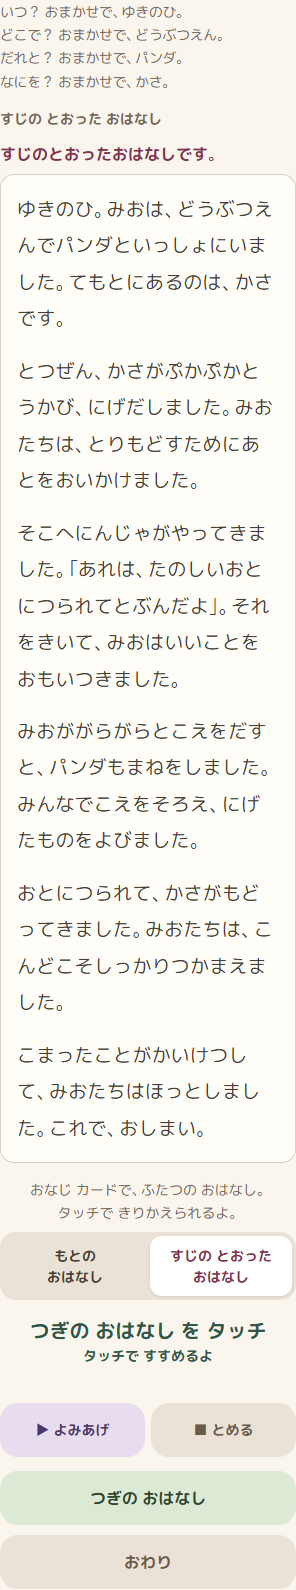
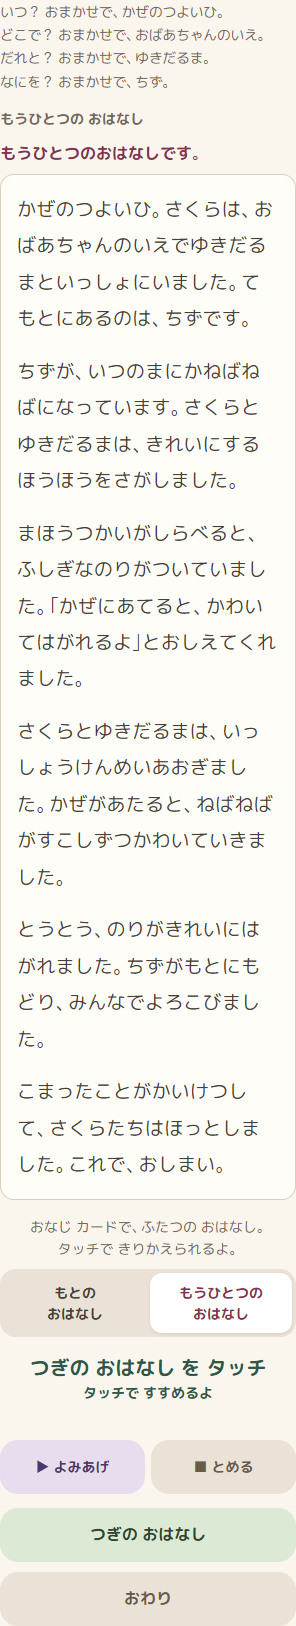
Rename alternate story to another story in UI and narration

diff --git a/story/index.html b/story/index.html
@@ -83,7 +83,7 @@
         <p class="switch-caption">おなじ カードで、ふたつの おはなし。<br>タッチで きりかえられるよ。</p>
         <div class="story-versions" role="group" aria-label="おはなしの きりかえ">
           <button type="button" data-story-version="original" aria-pressed="true"><span>もとの</span><span>おはなし</span></button>
-          <button type="button" data-story-version="coherent" aria-pressed="false"><span>すじの とおった</span><span>おはなし</span></button>
+          <button type="button" data-story-version="coherent" aria-pressed="false"><span>もうひとつの</span><span>おはなし</span></button>
         </div>
       </div>
       <div class="guide" id="after-guide"></div><p class="voice-options" id="after-guide-words"></p>
@@ -105,7 +105,7 @@
   </ol>
   <p>こえは ひとことずつ。よんでいる あいだは こえを おやすみ。ぜんぶ タッチでも あそべるよ。</p>
   <p>めくる までは「もどる」で なおせるよ。よみおわったら「つぎ」で つぎの おはなし、「おわり」で はじめへ。</p>
-  <p>「ふつう」では、できた おはなしの したに きりかえボタンが でるよ。おなじ カードで、すじの とおった おはなしも たのしめるよ。もとの おはなしにも もどれるよ。</p>
+  <p>「ふつう」では、できた おはなしの したに きりかえボタンが でるよ。おなじ カードで、もうひとつの おはなしも たのしめるよ。もとの おはなしにも もどれるよ。</p>
   <button id="help-close">とじる</button>
   <details class="panel small diagnostics" id="diag">
     <summary>保護者向け：読み上げの検証</summary>

diff --git a/story/app.js b/story/app.js
@@ -403,7 +403,7 @@ function paintStory() {
   $('story').innerHTML = st.story.lines.map((l, i) => `<li data-i="${i}" class="${l.shift ? 'shift' : ''}">${esc(l.text)}</li>`).join('');
   $('story-switch').hidden = settings.order !== 'normal';
   $('story-version-label').hidden = settings.order !== 'normal';
-  $('story-version-label').textContent = st.storyVersion === 'original' ? 'もとの おはなし' : 'すじの とおった おはなし';
+  $('story-version-label').textContent = st.storyVersion === 'original' ? 'もとの おはなし' : 'もうひとつの おはなし';
   document.querySelectorAll('[data-story-version]').forEach(button => {
     button.setAttribute('aria-pressed', String(button.dataset.storyVersion === st.storyVersion));
   });

diff --git a/sw.js b/sw.js
@@ -12,7 +12,7 @@
 // BUILD は scripts/stamp-cache.cjs が各デプロイ前に一意な値へ置換する。
 
 const VERSION = '0.1.0';            // version.json と一致（scripts/check-version 対象）
-const BUILD = 'v0.1.0-20260927231529-df47932';         // ← scripts/stamp-cache.cjs がデプロイ毎に置換
+const BUILD = 'v0.1.0-20260928042132-7a5a619';         // ← scripts/stamp-cache.cjs がデプロイ毎に置換
 const APP_CACHE = 'koekit-app-' + BUILD;
 const STATIC_CACHE = 'koekit-static-v2'; // 大きい静的資産（vosk.js等）。中身を変えたときだけ版を上げる
 

diff --git a/story/coherent-story.js b/story/coherent-story.js
@@ -60,6 +60,6 @@ export function buildCoherentStory({ audience, name, picks, original }) {
     }
     lines.push({ stage: STAGES[i], shift: false, text: fill(template) });
   });
-  return { lines, intro: kids ? 'すじのとおったおはなしです。' : '同じカードで、少し筋の通ったお話です。',
+  return { lines, intro: kids ? 'もうひとつのおはなしです。' : '同じカードで、もうひとつのお話です。',
     type: original.type, family, stages: STAGES.slice(), seq, extras: { ...original.extras }, companion: 'together' };
 }

diff --git a/docs/requirements-story.md b/docs/requirements-story.md
@@ -84,7 +84,7 @@
 | MG-010 | もういっかい | 新しい盤面で最初から遊ぶ | 初版 | 同上 |
 | MG-011 | 場面の順番「めちゃくちゃ」 | 段階も順番も無視して場面を並べる（支離滅裂を楽しむ） | 初版（発案者了承 2026-09-27） | 【要確認】試遊で評価。2026-09-27の試遊で発案者は「ふつうでも期待した程度に支離滅裂で狙いどおり。めちゃくちゃが不要なくらい」と評価（残すかは未決定） |
 | MG-012 | めくった内容の絵 | 絵にできるものは絵で表示。初版の試作は仮の絵（絵文字）。おとなモードは文字中心でもよい | 初版（絵の本制作は【要確認】） | 同上 |
-| MG-013 | 同じカードの別版 | 「ふつう」の結果で、元のお話と少し筋の通ったお話をタッチで切替。原作はそのまま保持し、同じ主人公・全選択カード・話の種類を使った別の展開をルールと定型文で生成する。LLM・外部生成APIは使わない。こども／おとな両対応。「めちゃくちゃ」は現状維持 | 初版（2026-09-28追加） | 発案者指示 |
+| MG-013 | 同じカードの別版 | 「ふつう」の結果で、「もとの おはなし」と「もうひとつの おはなし」をタッチで切替。原作はそのまま保持し、同じ主人公・全選択カード・話の種類を使った別の展開をルールと定型文で生成する。LLM・外部生成APIは使わない。こども／おとな両対応。「めちゃくちゃ」は現状維持 | 初版（2026-09-28追加） | 発案者指示 |
 | MG-N01 | 共通品質 | C-1〜C-3、PC・スマホ両対応、既存UI・発話案内の継承 | 必須 | 外れない（C区分） |
 
 ### 合意事項（2026-09-27）

diff --git a/docs/story/design.md b/docs/story/design.md
@@ -275,7 +275,7 @@ stateDiagram-v2
 
 ## 2026-09-28：同じカードによる2本の切替（v1.5、MG-013）
 
-- トップの「ふつう／めちゃくちゃ」は維持。「ふつう」の結果本文の下に、もとの おはなし／すじの とおった おはなしの選択ボタンを表示。新しい物語は必ず原作から表示する。
+- トップの「ふつう／めちゃくちゃ」は維持。「ふつう」の結果本文の下に、もとの おはなし／もうひとつの おはなしの選択ボタンを表示。新しい物語は必ず原作から表示する。
 - `story.js` と既存のJSON・ランダム抽選は変更しない。`st.originalStory` に生成結果を保持し、切替では再抽選しない。
 - `coherent-story.js` が `coherent-scenes.js` の対応する場面セットから別版を作る。主人公・選択した全カード・話の種類・脇役／音を引き継ぐ。本文の意味を解析する方式ではなく、同じ材料から展開を組み直す初版。
 - 冒険・謎解き・ハプニング・不思議・長い一日に対応する5組。それぞれ「はじまり→問題→手がかり→行動→解決→おわり」の6場面と、必要な場所／時間のつなぎ文を出力。各段階の2候補は前後の前提が対応する。行動から解決の間に場所や時間を切り替えない。

diff --git a/docs/story/handoff.md b/docs/story/handoff.md
@@ -4,7 +4,7 @@
 
 ## 2026-09-28：ふつうの結果に別版を追加
 
-「ふつう」の結果で「もとの おはなし／すじの とおった おはなし」を切替できる。原作の生成ロジック・本文・選択カードを維持し、同じ材料と話の種類からルールで別の展開を組み立てる。元の文章を意味解析して修正する方式ではない。LLM・追加依存なし。こども／おとなに対応し、めちゃくちゃは従来どおり。詳細は [別版の実装記録](coherent-version.md)、配信状況は [公開記録](deployment.md)。
+「ふつう」の結果で「もとの おはなし／もうひとつの おはなし」を切替できる。原作の生成ロジック・本文・選択カードを維持し、同じ材料と話の種類からルールで別の展開を組み立てる。元の文章を意味解析して修正する方式ではない。LLM・追加依存なし。こども／おとなに対応し、めちゃくちゃは従来どおり。詳細は [別版の実装記録](coherent-version.md)、配信状況は [公開記録](deployment.md)。
 
 ## 公開後の調整（2026-09-27）
 

diff --git a/docs/story/coherent-version.md b/docs/story/coherent-version.md
@@ -24,3 +24,7 @@
 - `docs/story/verify-variants.cjs`：両対象、320/390/768px、原作と別版の往復、カード不変、めちゃくちゃ、切替中の音声取消、OFF、ヘルプ、停止、完読スクロール、新しい物語で原作から始まることを確認。
 - 既存のUI・読み上げ・SW検査を回帰確認する。実機の発話／読み上げは未確認。
 - 配信結果は [公開記録](deployment.md) を参照。
+
+## 2026-09-28 表示名の調整
+
+発案者の選択により、別版の表示名を「もうひとつの おはなし」に変更。ボタン・本文上の見出し・紹介の読み上げ・ヘルプへ適用。物語の整合性を断言せず、同じ材料による別の話として案内する。生成・切替・読み上げの動作は維持。

diff --git a/docs/story/coherent-preview.md b/docs/story/coherent-preview.md
@@ -24,7 +24,7 @@
 
 さいごに、ゆうびんやさんが「またあした！」と、おおきくてをふりました。おしまい。
 
-### 筋の通ったお話
+### もうひとつのお話
 
 なつやすみ。はなは、もりでねことぞうといっしょにいました。てもとにあるのは、ケーキとかさです。
 
@@ -62,7 +62,7 @@
 
 「また会いましょう」。やけに詳しい占い師と売れない手品師の言葉どおり、次の事件は、すぐにやってきた。
 
-### 筋の通ったお話
+### もうひとつのお話
 
 連休最終日。佐藤は、海辺のカフェでやけに詳しい占い師と売れない手品師と合流した。手元には、やたら重い封筒と差出人のない手紙があった。
 

diff --git a/docs/story/summary.md b/docs/story/summary.md
@@ -34,4 +34,4 @@
 
 ## 同じカードの別版（2026-09-28）
 
-「ふつう」の元の物語を保ち、結果画面で筋の通った別版へタッチで切替できる。主人公・全選択カード・話の種類を継承し、対応する問題と解決を用意した5組の場面セットで組み直す。LLMなし。詳しくは [実装記録](coherent-version.md)。
+「ふつう」の元の物語を保ち、結果画面で「もうひとつの おはなし」へタッチで切替できる。主人公・全選択カード・話の種類を継承し、対応する問題と解決を用意した5組の場面セットで組み直す。LLMなし。詳しくは [実装記録](coherent-version.md)。
